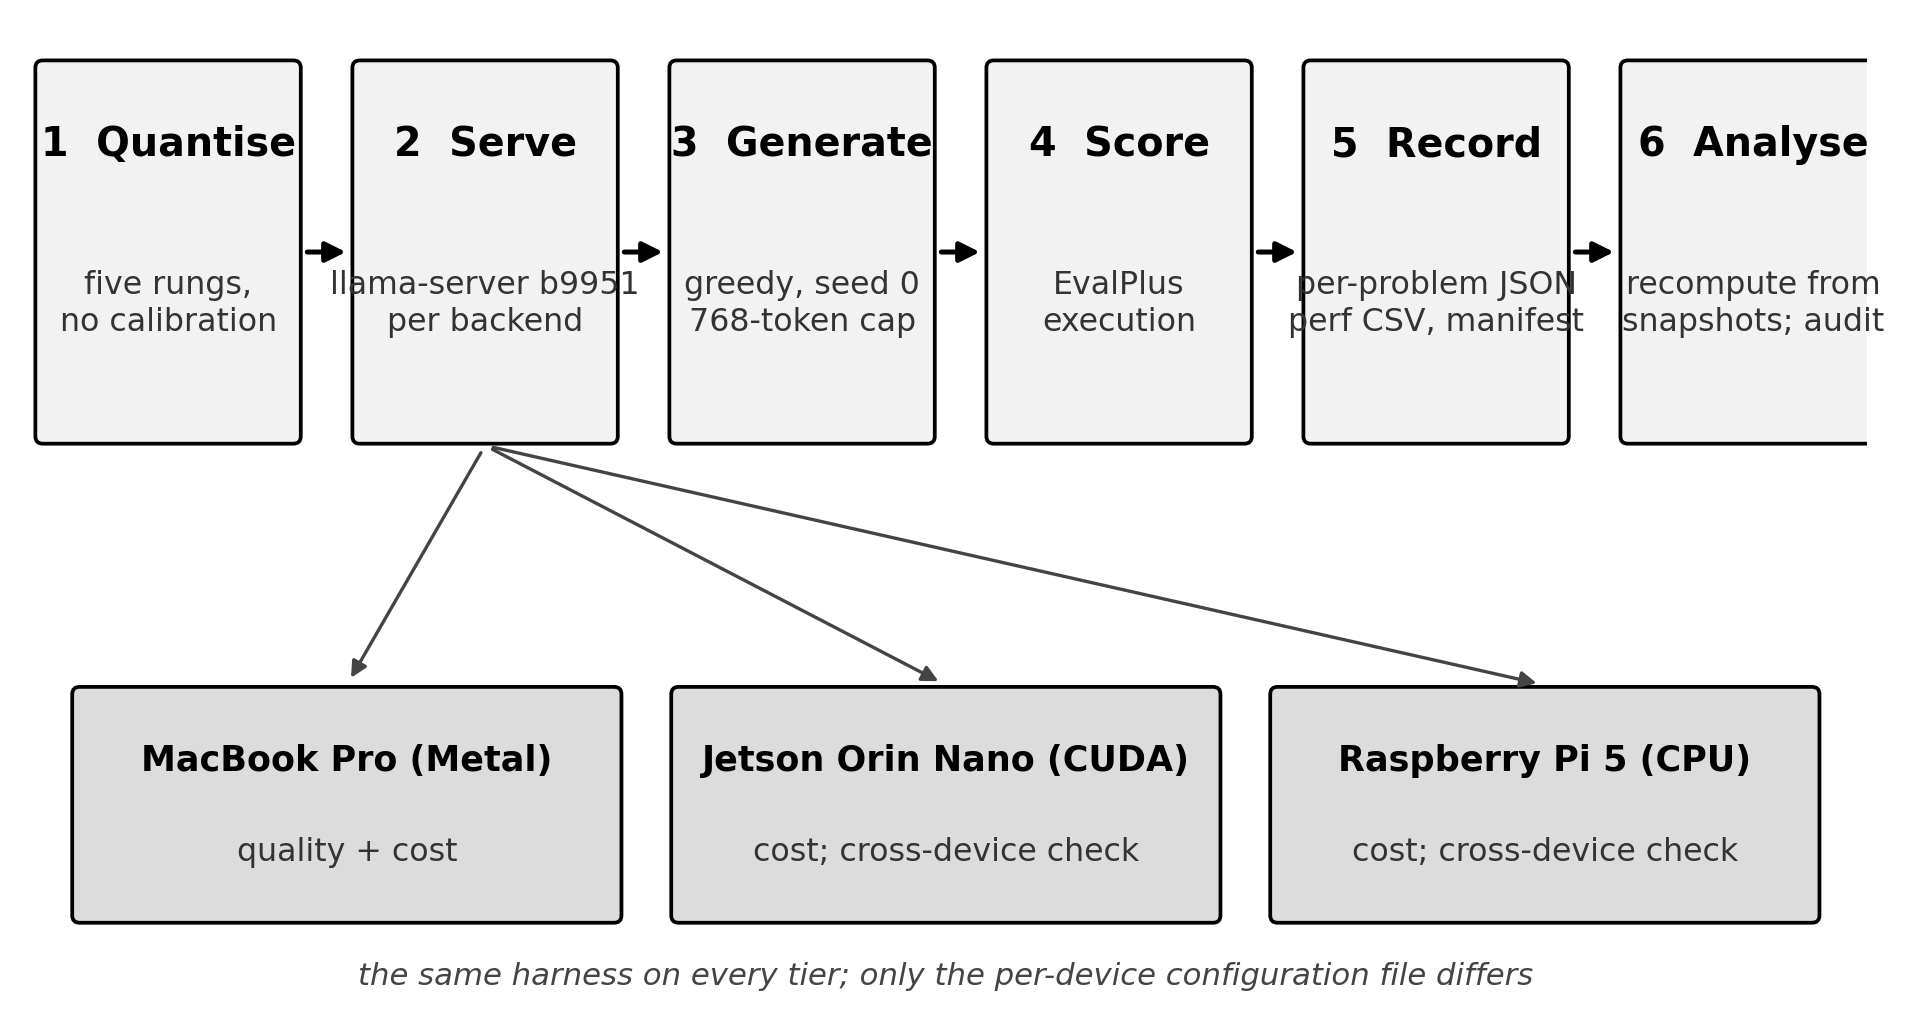
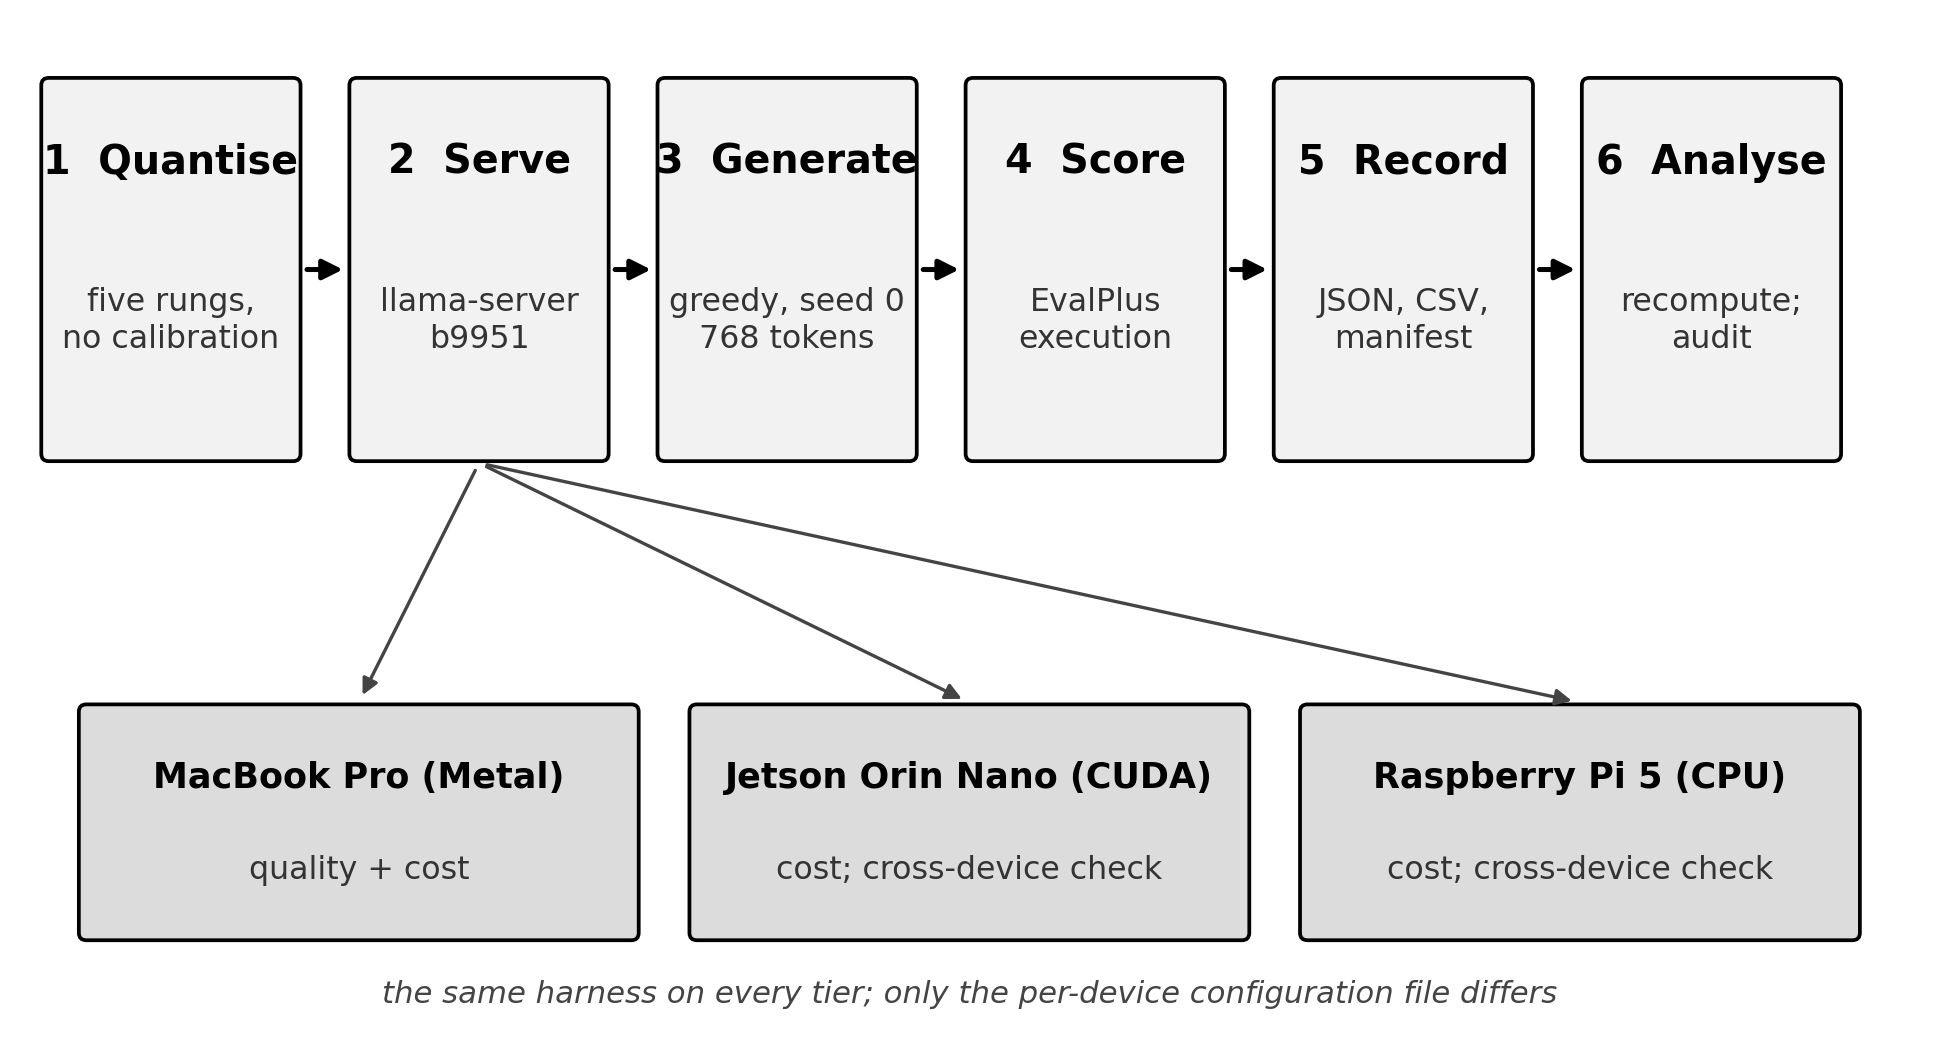
Project update

diff --git a/irp/analysis/make_fig_pipeline2.py b/irp/analysis/make_fig_pipeline2.py
@@ -7,14 +7,14 @@ from matplotlib.patches import FancyBboxPatch, FancyArrowPatch
 
 HERE = os.path.dirname(os.path.abspath(__file__))
 stages = [("Quantise", "five rungs,\nno calibration"),
-          ("Serve", "llama-server b9951\nper backend"),
-          ("Generate", "greedy, seed 0\n768-token cap"),
+          ("Serve", "llama-server\nb9951"),
+          ("Generate", "greedy, seed 0\n768 tokens"),
           ("Score", "EvalPlus\nexecution"),
-          ("Record", "per-problem JSON\nperf CSV, manifest"),
-          ("Analyse", "recompute from\nsnapshots; audit")]
+          ("Record", "JSON, CSV,\nmanifest"),
+          ("Analyse", "recompute;\naudit")]
 tiers = [("MacBook Pro (Metal)", "quality + cost"), ("Jetson Orin Nano (CUDA)", "cost; cross-device check"), ("Raspberry Pi 5 (CPU)", "cost; cross-device check")]
 fig, ax = plt.subplots(figsize=(6.4, 3.4)); ax.set_xlim(0, 100); ax.set_ylim(0, 54); ax.axis("off")
-W, H, G = 13.6, 20, 3.6; x0 = 1.0; y0 = 31
+W, H, G = 13.0, 20, 3.4; x0 = 1.0; y0 = 31
 for i, (t, s) in enumerate(stages):
     x = x0 + i * (W + G)
     ax.add_patch(FancyBboxPatch((x, y0), W, H, boxstyle="round,pad=0.4", fc="#f2f2f2", ec="black", lw=0.9))
@@ -30,4 +30,4 @@ for j, (name, sub) in enumerate(tiers):
     sx = x0 + 1 * (W + G) + W / 2
     ax.add_patch(FancyArrowPatch((sx, y0 - 0.5), (tx + TW / 2, ty + TH + 0.5), arrowstyle="-|>", mutation_scale=8, lw=0.8, color="#444444", connectionstyle="arc3,rad=0.0"))
 ax.text(50, 1.2, "the same harness on every tier; only the per-device configuration file differs", ha="center", fontsize=7.4, style="italic", color="#444444")
-plt.tight_layout(pad=0.3); out = os.path.join(HERE, "figures", "fig3-1_pipeline2.png"); fig.savefig(out, dpi=300); print("wrote", out)
+plt.tight_layout(pad=0.3); out = os.path.join(HERE, "figures", "fig3-1_pipeline2.png"); fig.savefig(out, dpi=300, bbox_inches="tight"); print("wrote", out)

diff --git a/irp/analysis/make_fig_results.py b/irp/analysis/make_fig_results.py
@@ -74,9 +74,9 @@ for ax, (m, lab, cliff) in zip(axes, ((QW, "Qwen2.5-Coder-1.5B", 4), (PH, "Phi-3
     ax.plot(X, ladder(m, "oracle"), "-^", color=GREEN, lw=1.6, ms=5.5, label="oracle-selected documentation (O)")
     if m == QW: ax.plot(X, ladder(m, "r1"), "-D", color=PURPLE, lw=1.6, ms=5, label="model-chosen documentation, grammar (R1)")
     ax.set_ylim(0.1, 0.75); ax.set_ylabel("HumanEval+ pass@1"); ax.grid(axis="y", alpha=0.3)
-    ax.text(0.02, 0.06, lab, transform=ax.transAxes, fontsize=9, weight="bold")
+    ax.text(0.02, 0.93, lab, transform=ax.transAxes, fontsize=9, weight="bold")
     ax.text(cliff, 0.72, "collapse rung", ha="center", fontsize=8, color="#d43d51")
-axes[0].legend(loc="upper right", ncol=2); axes[1].set_xticks(X); axes[1].set_xticklabels(Q)
+axes[0].legend(loc="lower left", ncol=1); axes[1].set_xticks(X); axes[1].set_xticklabels(Q)
 plt.tight_layout(); fig.savefig(os.path.join(OUT, "fig4-5_conditions.png"), dpi=300); plt.close(fig)
 
 # ---- Figure 4.6: scale

diff --git a/irp/project-log.md b/irp/project-log.md
@@ -904,3 +904,9 @@ pipeline figure restored as Figure 3.1; Qwen2.5-Coder and Phi-3 technical report
 DOI usage made consistent); quantisation background paragraph; E2b, E6 and E4-α design in the body; social, commercial and
 professional issues stated; Table 4.5 numeric; MBPP+ reversal decomposed per problem; §5.1 walks the objectives; §6.3 gives each
 direction its reason and design. Declared count 8971 (8677 body + 294 in figures).
+
+## 2026-10-21 (night) — Fifth reviewer pass: five faults fixed, §5.4 evidence paragraph added
+
+Creswell citation number corrected (a "Ch." qualifier the renumbering regex did not recognise; regex fixed), executive-summary
+antecedent, pipeline figure clipping, acknowledgements corrections carried into the source, Figure 4.5 legend, Wei et al.;
+§4.3/§4.4 trimmed to fund a §5.4 paragraph tying each recommendation to its cell and condition. Declared 8968.
